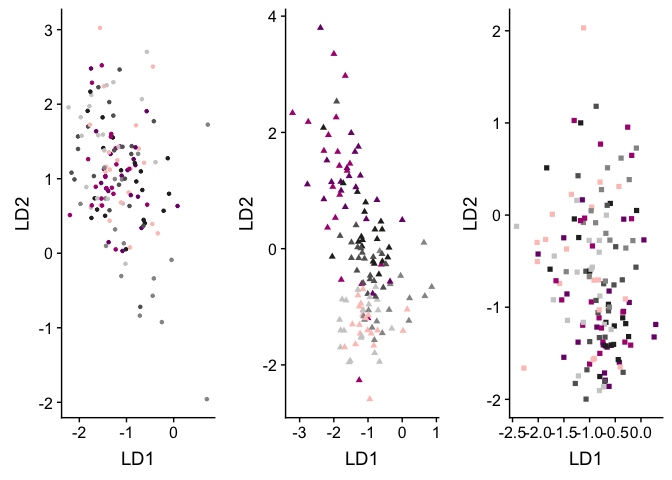
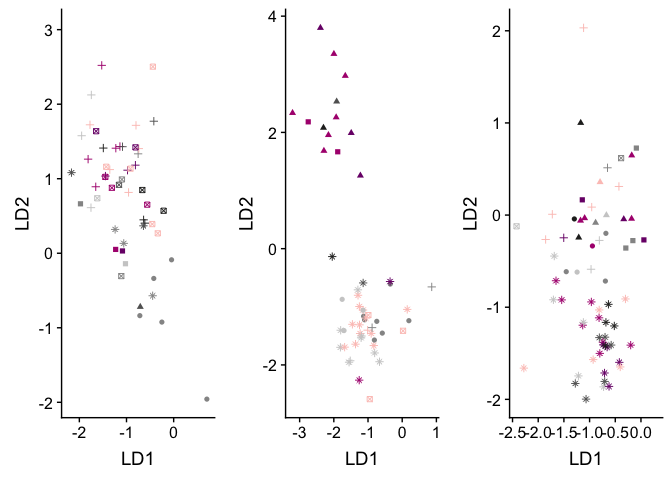
now with shape

diff --git a/analysis/04_LDA.md b/analysis/04_LDA.md
@@ -162,11 +162,11 @@ Linear discriminant analysis (LDA)
 
 ![](../figures/LDA/LDAplots-1.png)
 
-    g <- ggplot(LDA.hyp, aes(x = LD1, LD2, shape = predictedstage, color = treatment)) + geom_point(shape = 20) + theme(legend.position = "none") + scale_color_manual(values = colorscharmaip) 
+    g <- ggplot(LDA.hyp, aes(x = LD1, LD2, shape = predictedstage, color = treatment)) + geom_point( ) + theme(legend.position = "none") + scale_color_manual(values = colorscharmaip) 
 
-    h <- ggplot(LDA.pit, aes(x = LD1, LD2, shape = predictedstage, color = treatment)) + geom_point(shape = 17) + theme(legend.position = "none") + scale_color_manual(values = colorscharmaip) 
+    h <- ggplot(LDA.pit, aes(x = LD1, LD2, shape = predictedstage, color = treatment)) + geom_point( ) + theme(legend.position = "none") + scale_color_manual(values = colorscharmaip) 
 
-    i <- ggplot(LDA.gon, aes(x = LD1, LD2, shape = predictedstage, color = treatment)) + geom_point(shape = 15) + theme(legend.position = "none") + scale_color_manual(values = colorscharmaip)  
+    i <- ggplot(LDA.gon, aes(x = LD1, LD2, shape = predictedstage, color = treatment)) + geom_point( ) + theme(legend.position = "none") + scale_color_manual(values = colorscharmaip)  
 
     plot_grid(g,h,i, nrow = 1)
 
